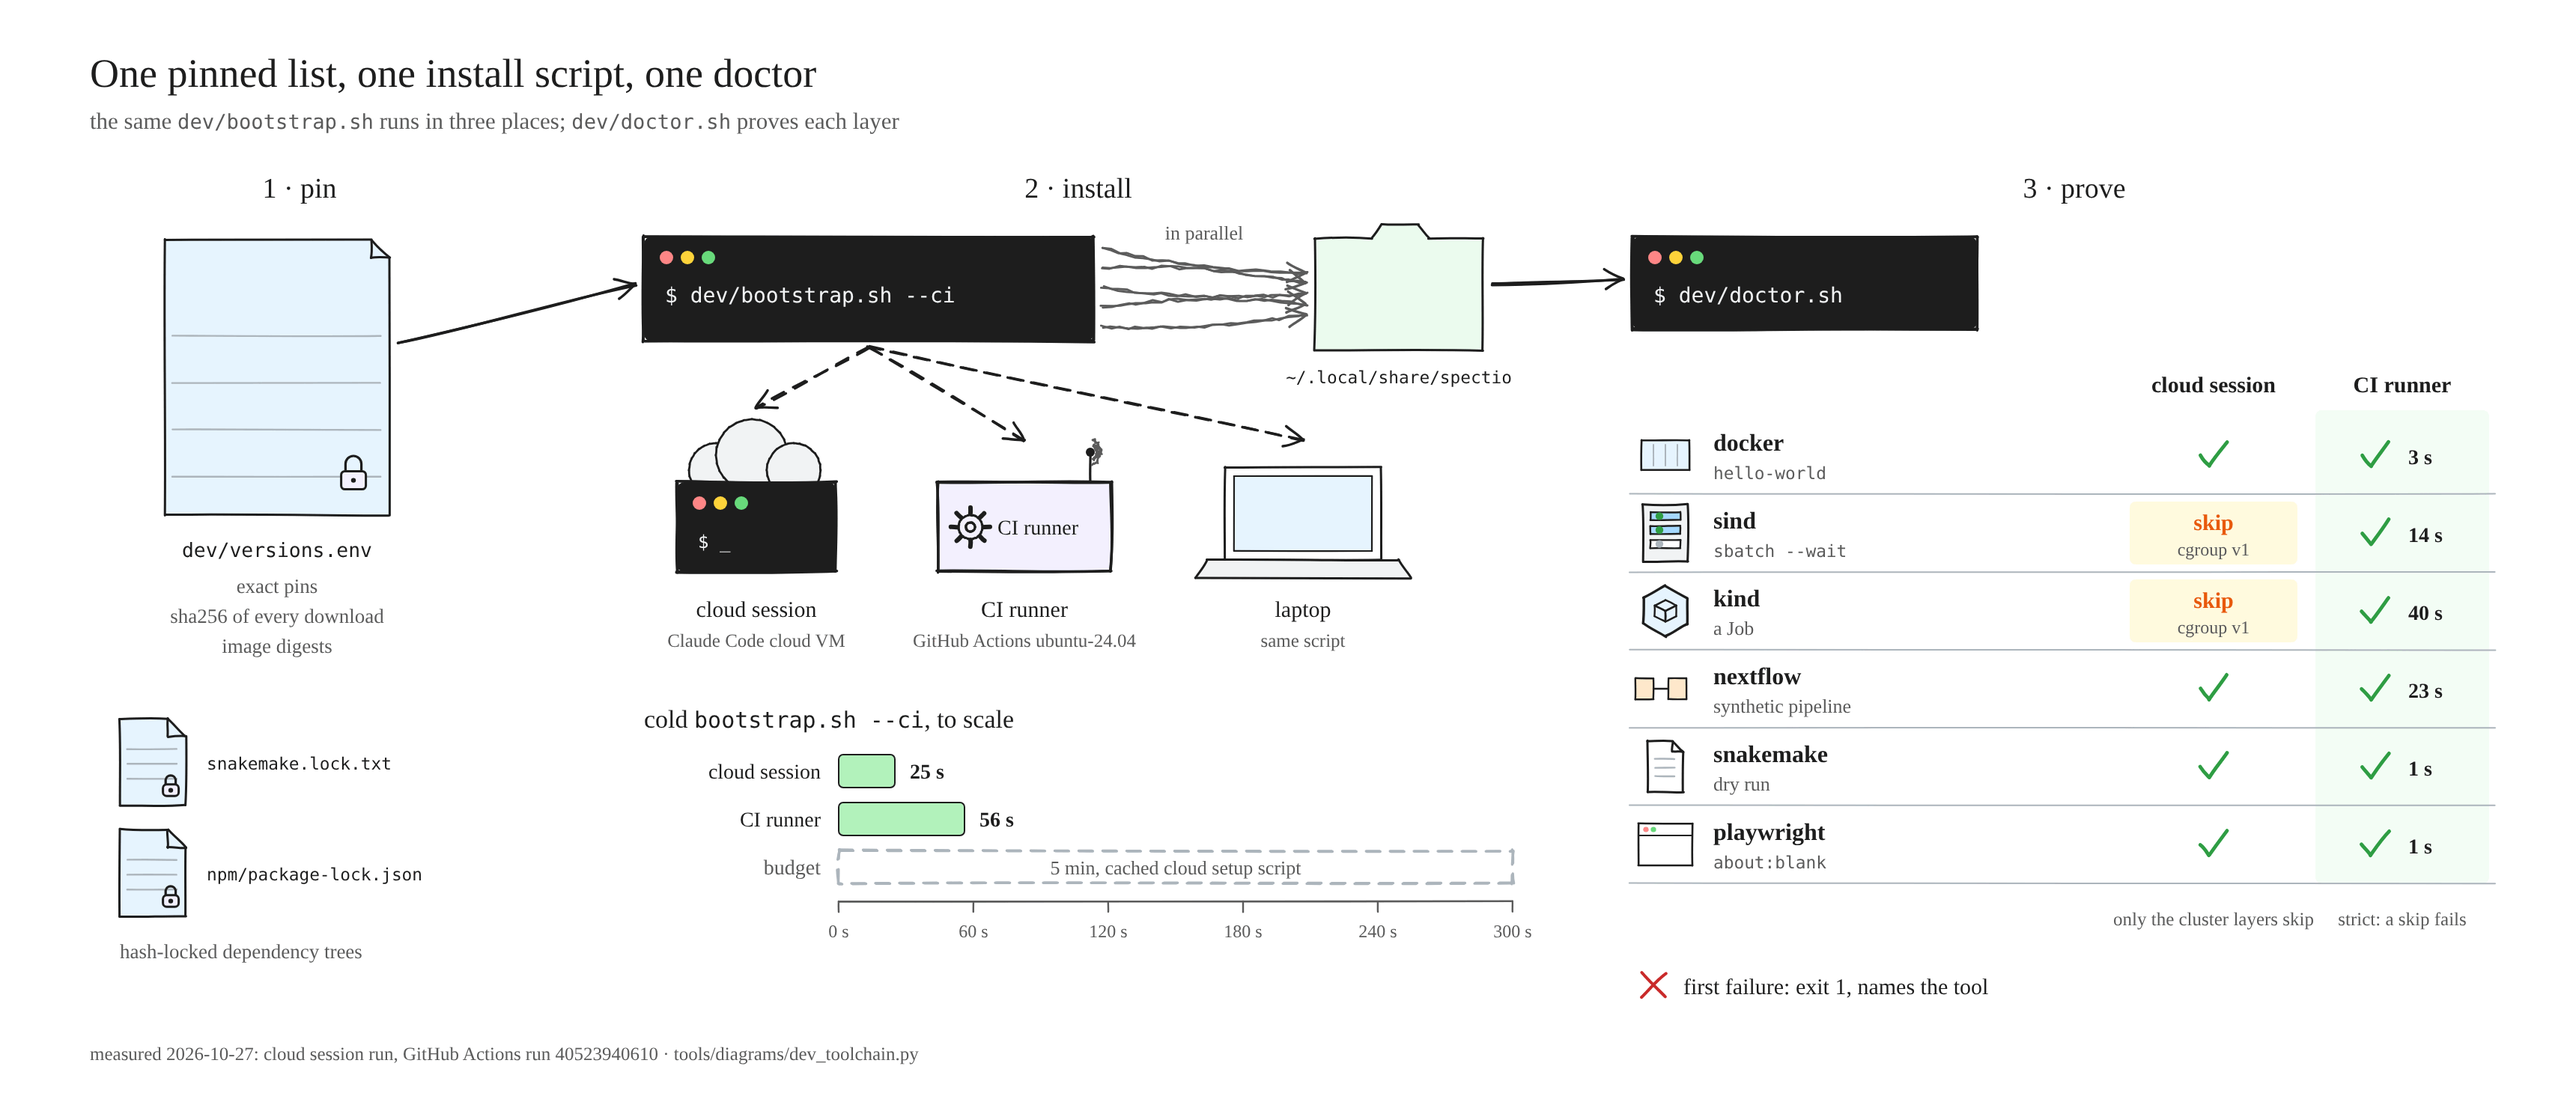
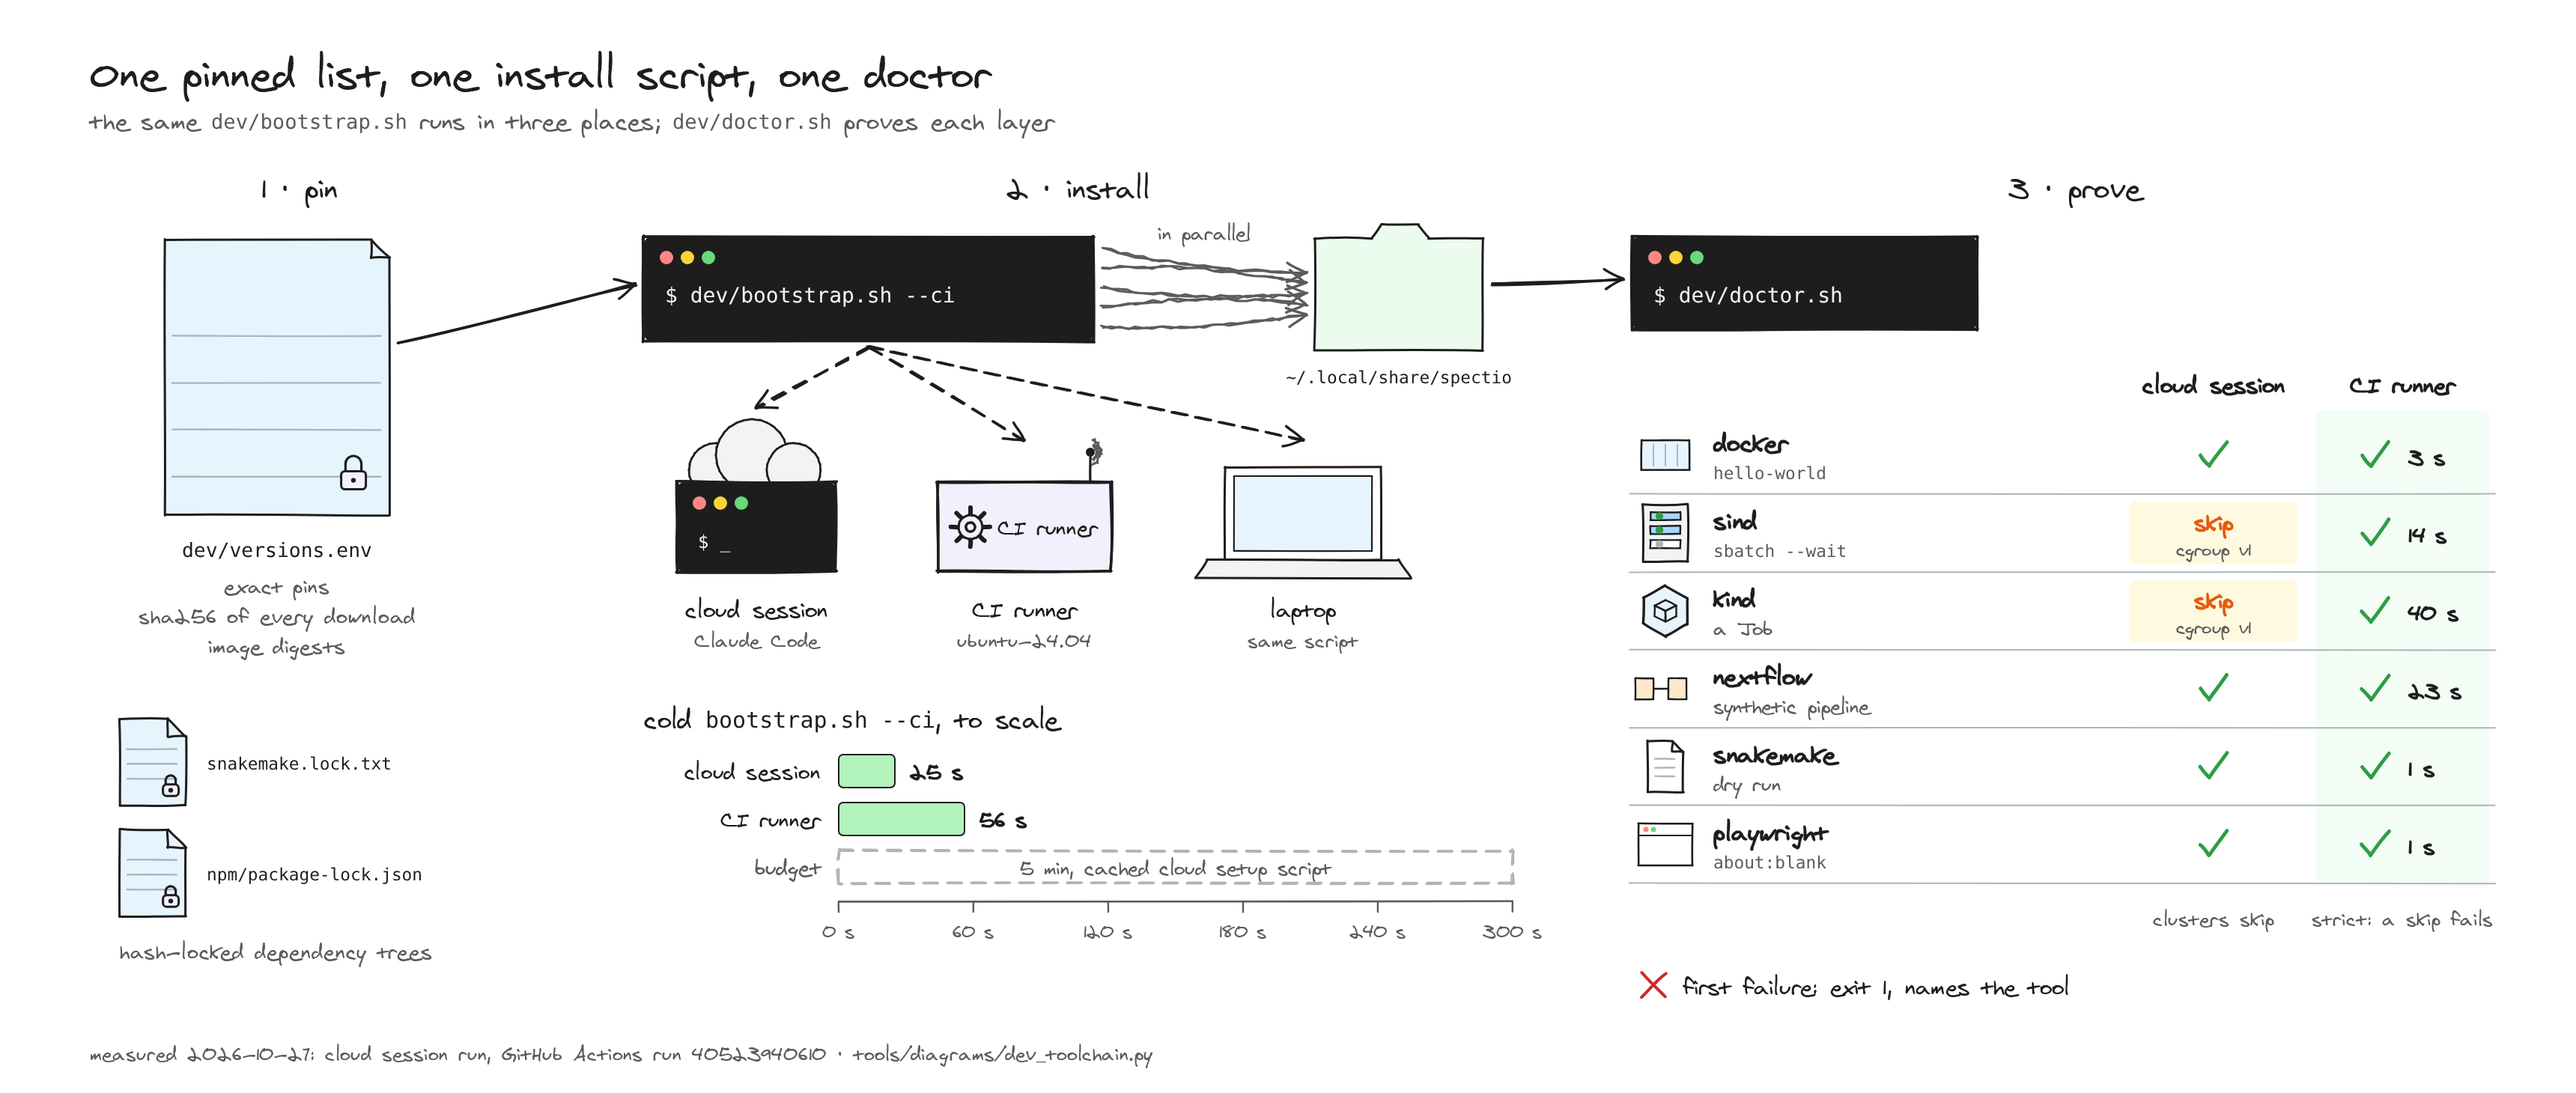
docs(D3): render the sketch with Virgil, shorten two colliding captions
Claude-Session: https://claude.ai/code/session_01V2p8oo3psFAQFEtANpNUDx

diff --git a/tools/diagrams/dev_toolchain.py b/tools/diagrams/dev_toolchain.py
@@ -86,8 +86,8 @@ def build(theme: Theme) -> Sketch:
     s.poly([(lx - 12, py + 74), (lx + 116, py + 74), (lx + 124, py + 86), (lx - 20, py + 86)], fill="neutral")
     for cx in (505, 684, 870):
         s.arrow(580, 232, cx, py - 6 if cx != 505 else py - 28, dashed=True)
-    for cx, name, note in ((505, "cloud session", "Claude Code cloud VM"),
-                           (684, "CI runner", "GitHub Actions ubuntu-24.04"),
+    for cx, name, note in ((505, "cloud session", "Claude Code"),
+                           (684, "CI runner", "ubuntu-24.04"),
                            (870, "laptop", "same script")):
         s.text(cx, py + 112, name, size=15)
         s.text(cx, py + 132, note, size=12.5, colour=t.dim)
@@ -160,7 +160,7 @@ def build(theme: Theme) -> Sketch:
         s.text(ci + 4, cy + 6, f"{ci_s} s", size=14, anchor="start", weight="bold")
     s.line(1088, top + 6 * rh, 1666, top + 6 * rh, colour=t.muted, width=1, amount=0.4, passes=1)
     ny = top + 6 * rh + 28
-    s.text(cc, ny, "only the cluster layers skip", size=12.5, colour=t.dim)
+    s.text(cc, ny, "clusters skip", size=12.5, colour=t.dim)
     s.text(ci, ny, "strict: a skip fails", size=12.5, colour=t.dim)
     s.cross(1104, ny + 40, size=8)
     s.text(1124, ny + 46, "first failure: exit 1, names the tool", size=15, anchor="start")

diff --git a/docs/progress/W3/D3.md b/docs/progress/W3/D3.md
@@ -14,7 +14,7 @@ review_ref: "D3 step report to the autopilot, 2026-10-27 (doc-reviewer, headless
 ![D3 figure: dev/versions.env, with two hash-locked dependency files, feeds dev/bootstrap.sh --ci, which installs five parallel strands into ~/.local/share/spectio and runs in a cloud session, a CI runner and on a laptop. Cold runs took 25 s in a cloud session and 56 s on a CI runner, against a 5-minute budget. dev/doctor.sh then checks six layers: in the cloud session sind and kind are skipped because of cgroup v1 and the other four pass; on the CI runner all six pass, and in strict mode a skip fails. The first failure exits 1 and names the tool.](../../assets/diagrams/dev_toolchain_light.png#only-light)
 ![D3 figure: dev/versions.env, with two hash-locked dependency files, feeds dev/bootstrap.sh --ci, which installs five parallel strands into ~/.local/share/spectio and runs in a cloud session, a CI runner and on a laptop. Cold runs took 25 s in a cloud session and 56 s on a CI runner, against a 5-minute budget. dev/doctor.sh then checks six layers: in the cloud session sind and kind are skipped because of cgroup v1 and the other four pass; on the CI runner all six pass, and in strict mode a skip fails. The first failure exits 1 and names the tool.](../../assets/diagrams/dev_toolchain_dark.png#only-dark)
 
-*The timings and ticks come from a cloud session and from GitHub Actions run 40523940610, both on 2026-10-27. The later run 40526621317 gave the same result (bootstrap 55 s). The PNGs were rendered with a fallback font, because the Virgil font is not in this session ([inbox #1](../../reviews/inbox.md)).*
+*The timings and ticks come from a cloud session and from GitHub Actions run 40523940610, both on 2026-10-27. The later run 40526621317 gave the same result (bootstrap 55 s). The PNGs were rendered with the local Virgil font, which is not committed ([inbox #1](../../reviews/inbox.md)).*
 
 ## What changed
 
